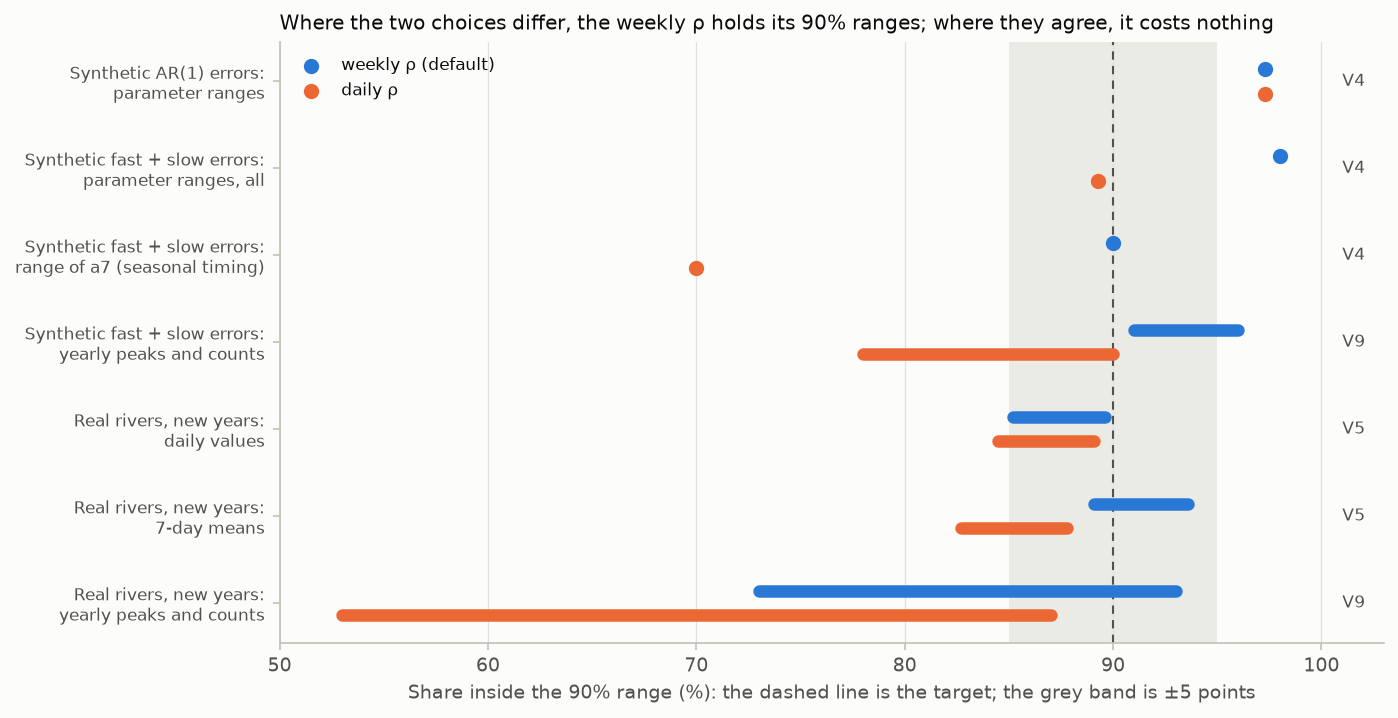
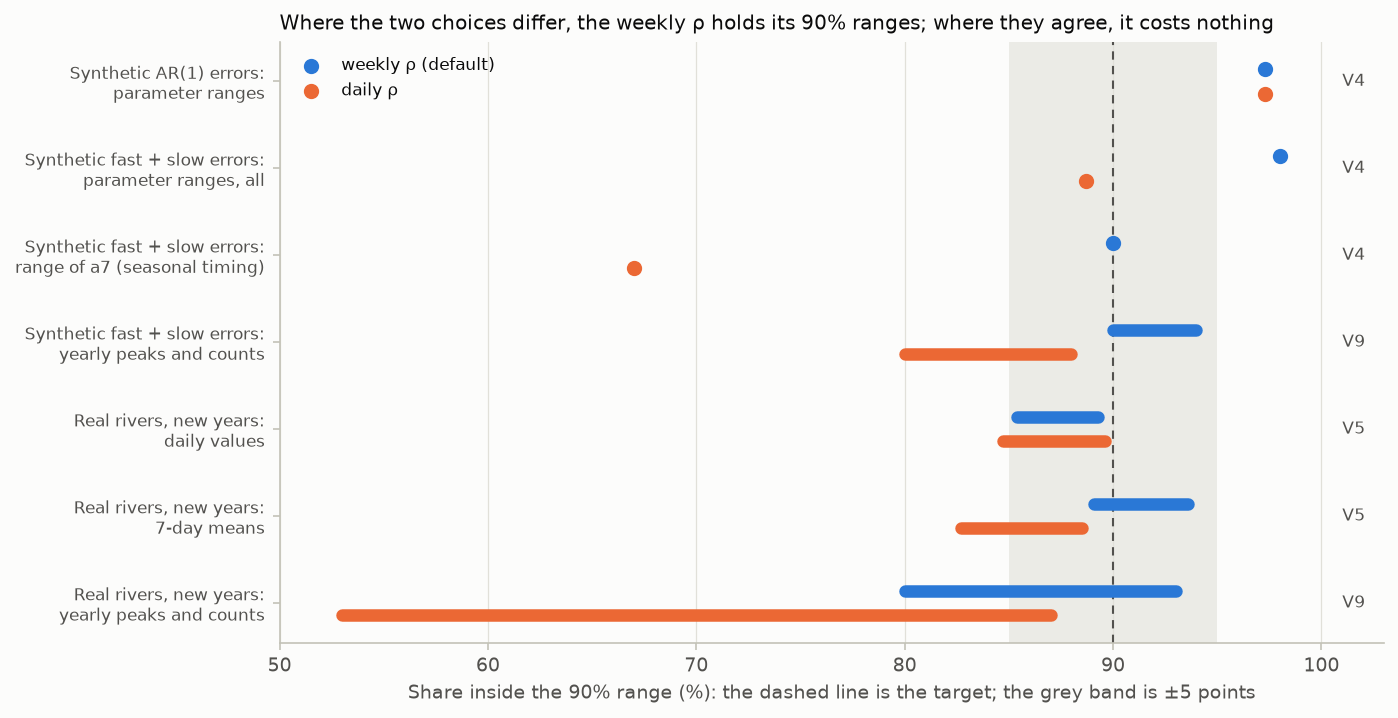
Docs: every validation number checked against the full rerun with the DE fix
Updated where the rerun changed them: V5 coverage (90% daily intervals in
later years 85-89%, 99% 95-99.5%), V4 jackknife coverage 83-95% (fold spread
35-52%) and daily-rho a7 interval 67%, V9 (synthetic 83-96%, real rivers
80-93%, version 8 Brier skill 0.08-0.43 rising to 0.35-0.50), V12 (hiding a
year's inputs changed no RMSE by more than 0.007 C, a seed alone the
intervals' width by 0.65-1.06), and the weekly-rho evidence table and figure
U18. The message printed after cross-validation quotes 83-95%. The CHANGELOG
records the full rerun.

Claude-Session: https://claude.ai/code/session_01JyYTyNnMKAUkaRFLKK2LWV

diff --git a/pyair2stream/main.py b/pyair2stream/main.py
@@ -27,7 +27,7 @@ from .model import (call_model, aggregation, statis, funcobj, detect_segments, w
 JACKKNIFE_NOTE = (
     "The rows jackknife_{level}_lower/upper are approximate {level}% intervals for the parameters "
     "(uncertainty_options.parameter_interval; in validation, 90% intervals contained the true values "
-    "83-94% of the time; validation/REPORT.md, V4). The 'std' row is only the spread between folds: "
+    "83-95% of the time; validation/REPORT.md, V4). The 'std' row is only the spread between folds: "
     "it is far too small to use as an uncertainty."
 )
 

diff --git a/docs/METHODS.md b/docs/METHODS.md
@@ -424,10 +424,10 @@ its inputs, which shape only the first days to weeks of the next year.
 
 Validation V12 tested the alternatives on 96 held-out river-years. Hiding the
 inputs during calibration too (in gap-tolerant mode, where the year then becomes
-a gap) changed no year's RMSE by more than 0.034 °C against the same mode with
-the inputs kept (another optimizer seed alone: 0.017 °C), and a 60-day
+a gap) changed no year's RMSE by more than 0.007 °C against the same mode with
+the inputs kept (another optimizer seed alone: 0.007 °C), and a 60-day
 buffer of unused days on each side of the year (h-block cross-validation;
-Burman et al., 1994) by no more than 0.041 °C; neither changed the coverage of
+Burman et al., 1994) by no more than 0.008 °C; neither changed the coverage of
 the 90% interval or the mean error of the yearly statistics measurably.
 
 **What it does not test.**
@@ -441,7 +441,7 @@ the 90% interval or the mean error of the yearly statistics measurably.
   earlier years, as is usual in hydrology (Coron et al., 2012), but where a
   record changes over time only a test that keeps time order is fully honest
   (Arlot and Celisse, 2010, §8.3). In V12, calibrating on earlier years only
-  predicted as accurately (RMSE 0.787 against 0.786 °C on the same 78 years),
+  predicted as accurately (RMSE 0.787 against 0.785 °C on the same 78 years),
   but its 90% intervals held on 87.1% of days against 89.6%, because the error
   size estimated from earlier years only was smaller. V5 (the later years of
   each record) and V10 (warmer years) are the forward tests: quote them, as
@@ -450,7 +450,7 @@ the 90% interval or the mean error of the yearly statistics measurably.
 Large variation of the parameters between folds means they are poorly determined
 by the data (equifinality). The spread between folds (`std`) is not a confidence
 interval: the folds share most of their data, so it understates the uncertainty
-(in validation V4 it contained the true values only 35–56% of the time).
+(in validation V4 it contained the true values only 35–52% of the time).
 
 `cv_results.csv` therefore also gives **jackknife intervals** for the parameters.
 With θᵢ the parameters fitted without block i (m folds), θ̄ their mean, and n the
@@ -464,9 +464,9 @@ rows are named `jackknife_90_lower` and so on).
 When every block is held out (m = n) this is the standard delete-one-block
 jackknife; the first years are never held out, so the sum over n blocks is
 estimated as n/m times the sum over the m folds. In validation V4 these 90%
-intervals contained the true parameters 83–94% of the time for every version.
+intervals contained the true parameters 83–95% of the time for every version.
 On the same data, the DE-MCMC parameter intervals (§12, default likelihood)
-contained them 97% of the time for version 5 and 91% for version 8. For
+contained them 97% of the time for version 5 and 93% for version 8. For
 versions 4, 7 and 8 set `Qmedia`
 explicitly, so that every fold uses the same discharge scaling.
 
@@ -580,9 +580,9 @@ values at least 90% of the time for both versions (V4). The exact AR(1)
 likelihood's intervals for version 8 contained the truth only about 75% of the
 time: its parameters trade off against each other and that posterior is far from
 normal. The sampler was cross-checked against emcee's stretch move. On three real
-rivers, with the default settings, 90% intervals contained 85–89.6% of daily
-values in years not used for calibration (84.5–89.6% across all settings
-tested), and for 7-day means 89–94%, against 83–88% with `rho_timescale:
+rivers, with the default settings, 90% intervals contained 85–89% of daily
+values in years not used for calibration (84.7–89.6% across all settings
+tested), and for 7-day means 89–94%, against 83–89% with `rho_timescale:
 "daily"` and 39–62% with `iid` (V5). On the same rivers, the parameters published by Piccolroaz et al.
 (2016) lay inside these intervals for every converged run of versions 3–5. For
 versions 7 and 8 on the Mentue and version 8 on the Rhône several lay outside:
@@ -590,14 +590,14 @@ there many parameter combinations fit almost equally well, and the published
 set is not where a least-squares calibration on these data lands (V2).
 
 **At other levels.** On synthetic data the intervals held at every level tested
-(50%, 80%, 90%, 95% and 99%: mean coverage within 1.4 points of the level, V4).
+(50%, 80%, 90%, 95% and 99%: mean coverage within 1.3 points of the level, V4).
 On the Swiss rivers, pooled over 48 years held out by cross-validation per
 version, daily intervals held from 50% to 95% (95% intervals: 94.4–94.5% of
 days), but 99% intervals held only 98.0–98.2%: the model's real errors have
 heavier tails than the normal distribution assumed (V11). In the later
 validation years of V5, whose errors were larger than in calibration, daily
-intervals were narrower than stated, more so at high levels (90%: 85–90%; 95%:
-91–95%; 99%: 95–99.6%). 7-day means held at every level (V11: 96–97% at 95%,
+intervals were narrower than stated, more so at high levels (90%: 85–89%; 95%:
+91–95%; 99%: 95–99.5%). 7-day means held at every level (V11: 96–97% at 95%,
 98.6–99.2% at 99%).
 
 **Where the chain is centred.** With the default least-squares likelihood the
@@ -760,8 +760,8 @@ autocorrelation of its sensitivity and r_e that of the errors.
 With one factor for all parameters, the factor must be large enough for the
 slowest parameter. Validation V4 computes this formula and compares it with the
 measured spread of the estimates; they agree closely. With fast + slow errors,
-ρ₁ made a7's interval about 1.5 times too narrow (measured 1.54; the formula
-predicts 1.59). Its 90% interval contained the truth 70% of the time. The
+ρ₁ made a7's interval about 1.5 times too narrow (measured 1.55; the formula
+predicts 1.59). Its 90% interval contained the truth 67% of the time. The
 weekly ρ gave it the right width (90%). The cost is that the intervals of the
 fast-varying parameters are wider than necessary, by a factor of about two to
 three in V4. That happens with either ρ: it is a property of a single effective
@@ -781,12 +781,12 @@ noisy, and ρ₁ sets the floor. For AR(1) errors, taking the larger changes not
 | Test | Weekly ρ (default) | Daily ρ | Check |
 |---|---|---|---|
 | AR(1) errors, synthetic: ρ estimated; 90% parameter intervals containing the truth | 0.699; 97.3% | 0.691; 97.3% | V4 E, G |
-| Fast + slow errors, synthetic: 90% parameter intervals | 98.0% | 89.3% | V4 H, I |
-| Same, interval of a7 alone | 90% | 70% | V4 H, I |
-| Same, 90% ranges of yearly peaks and counts | 91–96% | 78–90% | V9 A |
-| Real rivers, later years: daily values inside 90% intervals | 85.2–89.6% | 84.5–89.1% | V5 |
-| Same, 7-day means | 89.1–93.6% | 82.7–87.8% | V5 |
-| Same, 90% ranges of yearly peaks and counts | 73–93% | 53–87% | V9 B |
+| Fast + slow errors, synthetic: 90% parameter intervals | 98.0% | 88.7% | V4 H, I |
+| Same, interval of a7 alone | 90% | 67% | V4 H, I |
+| Same, 90% ranges of yearly peaks and counts | 90–94% | 80–88% | V9 A |
+| Real rivers, later years: daily values inside 90% intervals | 85.4–89.3% | 84.7–89.6% | V5 |
+| Same, 7-day means | 89.1–93.6% | 82.7–88.5% | V5 |
+| Same, 90% ranges of yearly peaks and counts | 80–93% | 53–87% | V9 B |
 
 The synthetic fast + slow errors are built like the real ones (60% of the
 variance in a part with ρ = 0.55, 40% in a part with ρ = 0.96). The real-river
@@ -906,7 +906,7 @@ result.
 **What the validation shows** (V9, V11). On synthetic data, where the model and
 its error model are exactly right, the stated probabilities for yearly
 statistics came true as often as stated, and the 90% ranges contained the
-measured value 86–94% of the time (V9 A). On the three Swiss rivers, over 48
+measured value 83–96% of the time (V9 A). On the three Swiss rivers, over 48
 held-out years per version (V11), the uncorrected 90% ranges held in 79–92% of
 years for version 8 and 73–81% for version 5. After the correction they held
 in 85–94% for both versions, within the range expected by chance, and the
@@ -919,7 +919,7 @@ as recommended to genuinely later years (cross-validation of the calibration
 years, then correction of the FORWARD simulations of the validation years; V9
 C, 15 river-years), the correction made the probabilities closer to what
 happened for 5 of 6 version and statistic pairs (version 8's Brier skill score
-against the share of past years rose from 0.08–0.42 to 0.33–0.50), but version
+against the share of past years rose from 0.08–0.43 to 0.35–0.50), but version
 8's 90% ranges for the highest daily mean still held in only 11 of 15
 river-years. Version 5 predicted almost the same peak every year on the Rhône,
 where discharge drives summer temperature; the correction removes its bias, but
@@ -1012,7 +1012,7 @@ change one-sided.
   Q-Q, autocorrelation) and the reported coverage, ideally on validation data.
   Errors are often larger in some seasons than others, so also check coverage
   in the season a limit applies to (on the Swiss rivers, summer coverage of 90%
-  intervals was 84–97%, validation V5).
+  intervals was 83–98%, validation V5).
 - **Converged sampling.** MCMC results are only valid once converged; by
   default the run stops otherwise (§12).
 - **Multi-day quantities** (7-day means, runs of days above a limit) need
@@ -1024,7 +1024,7 @@ change one-sided.
   (`prediction_interval`, `parameter_interval`). On the Swiss rivers daily
   intervals held from 50% to 95%, but 99% daily intervals missed about twice
   as many days as stated (98.0–98.2% held, V11), and in years unlike the
-  calibration years 95% intervals held 91–95% and 99% intervals 95–99.6% (V5).
+  calibration years 95% intervals held 91–95% and 99% intervals 95–99.5% (V5).
   Before reporting a 95% or 99% daily interval, check it at your site with
   `cv_interval_coverage.csv` (§11) and on validation years.
 - **Scenario differences** assume the model's error on a given day would be the

diff --git a/docs/UNCERTAINTY.md b/docs/UNCERTAINTY.md
@@ -270,8 +270,8 @@ weeks' errors correlate 0.52–0.81, about twice what the daily ρ implies
 
 **A single day: almost nothing.** σ is the same, so the range for one day is
 almost the same. On the Swiss rivers, the test was years not used for
-calibration. There, 90% daily ranges held on 85.2–89.6% of days with the weekly
-ρ, and on 84.5–89.1% with the daily ρ ([V5](../validation/REPORT.md#v5)).
+calibration. There, 90% daily ranges held on 85.4–89.3% of days with the weekly
+ρ, and on 84.7–89.6% with the daily ρ ([V5](../validation/REPORT.md#v5)).
 
 **Averages over a week or more: a lot.** Figure 8 shows simulated errors with
 each ρ, made from the same random numbers. Day by day they look alike. Over a
@@ -350,12 +350,12 @@ and below is over-confident.*
   data, V4 and [V9](../validation/REPORT.md#v9)). How often the 90% ranges
   contained the truth:
   - all parameter ranges: 98% with the weekly ρ, 89% with the daily ρ;
-  - the range of the seasonal timing `a7`: 90% against 70%;
-  - the ranges of yearly peaks and counts: 91–96% against 78–90%.
+  - the range of the seasonal timing `a7`: 90% against 67%;
+  - the ranges of yearly peaks and counts: 90–94% against 80–88%.
 - **Real rivers, years not used for calibration** (V5, V9). Daily values: the
   same with both. 90% ranges for 7-day means held 89.1–93.6% of the time with
-  the weekly ρ, against 82.7–87.8% with the daily ρ. Ranges for yearly peaks
-  and counts held in 73–93% of river-years, against 53–87%.
+  the weekly ρ, against 82.7–88.5% with the daily ρ. Ranges for yearly peaks
+  and counts held in 80–93% of river-years, against 53–87%.
 
 ### When to use which
 
@@ -437,7 +437,7 @@ One ρ sets the width of every parameter's range.
 - Parameters whose effect changes slowly over the year (the constant `a1`, the
   seasonal size `a6` and timing `a7`) need the full allowance for slow errors.
   With the daily ρ, the range of `a7` was too narrow: in the test, it contained
-  the truth 70% of the time instead of 90% (V4). With the weekly ρ it held
+  the truth 67% of the time instead of 90% (V4). With the weekly ρ it held
   (90%).
 - Parameters whose effect changes from day to day (`a2`, `a3`) then get ranges
   two to three times wider than they need.
@@ -568,9 +568,9 @@ was **not** calibrated on: a separate validation file, or cross-validation
 
 | Share of days inside the band | 50% | 80% | 90% | 95% | 99% |
 |---|---|---|---|---|---|
-| Synthetic data, model exactly right (V4) | within 1.4 points of the level at every level | | | | |
+| Synthetic data, model exactly right (V4) | within 1.3 points of the level at every level | | | | |
 | Swiss rivers, 48 held-out years per version (V11) | 52–54% | 81–82% | 90% | 94.4–94.5% | 98.0–98.2% |
-| Swiss rivers, later validation years (V5) | 43–53% | 75–79% | 85–90% | 91–95% | 95–99.6% |
+| Swiss rivers, later validation years (V5) | 43–53% | 75–79% | 85–89% | 91–95% | 95–99.5% |
 | Swiss rivers, the hottest 10% of days by prediction, version 8 (V14) | | 80% | 91% | 95% | |
 | The same, version 5 (no discharge term) (V14) | | 68% | 84% | 92% | |
 
@@ -684,7 +684,7 @@ everything the year could tell the model about the answer.
 Validation [V12](../validation/REPORT.md#v12) checked this on 96 held-out years
 of three Swiss rivers. Hiding the year's air temperature and discharge from the
 calibration as well, or leaving two months unused on each side of the year,
-changed no year's error by more than 0.04 °C, and did not change how often the
+changed no year's error by more than 0.01 °C, and did not change how often the
 ranges held.
 
 ### How to run it
@@ -1022,7 +1022,7 @@ cross-validation with a second `random_seed`.
 ### What the validation shows
 
 On synthetic data with known parameters, the default MCMC intervals (90%)
-contained the true values 91–97% of the time, and the jackknife intervals 83–94%
+contained the true values 93–97% of the time, and the jackknife intervals 83–95%
 ([V4](../validation/REPORT.md#v4)). The parameters published for the Swiss
 rivers (Piccolroaz et al., 2016) lay inside pyair2stream's MCMC intervals for 76
 of 81 values ([V2](../validation/REPORT.md#v2)).
@@ -1104,10 +1104,10 @@ range you quote beside it.
 
 | Share inside the range | 50% | 80% | 90% | 95% | 99% |
 |---|---|---|---|---|---|
-| days, synthetic data (V4) | within 1.4 points of the level at every level | | | | |
+| days, synthetic data (V4) | within 1.3 points of the level at every level | | | | |
 | days, 48 held-out years per version (V11) | 52–54% | 81–82% | 90% | 94.4–94.5% | 98.0–98.2% |
 | 7-day means, held-out years (V11) | 53–59% | 84–88% | 93–94% | 96–97% | 98.6–99.2% |
-| days, later validation years (V5) | 43–53% | 75–79% | 85–90% | 91–95% | 95–99.6% |
+| days, later validation years (V5) | 43–53% | 75–79% | 85–89% | 91–95% | 95–99.5% |
 | yearly statistics, corrected (V11) | 50–69% | 75–85% | 85–94% | 92–100% | 100% |
 
 ![Stated against achieved coverage on the real rivers: days, summer days and 7-day means.](../validation/figures/V5_levels.png)

diff --git a/USER_GUIDE.md b/USER_GUIDE.md
@@ -842,7 +842,7 @@ year, and then scores the model on that hidden year. It shows:
 Only the hidden year's water temperatures are hidden. The year is predicted
 from its own air temperature and discharge, like any prediction. This is the
 standard design. Hiding the inputs too changed no year's RMSE by more than
-0.04 °C ([V12](validation/REPORT.md#v12);
+0.01 °C ([V12](validation/REPORT.md#v12);
 [docs/METHODS.md §11](docs/METHODS.md#11-cross-validation) explains why).
 
 Each year is predicted from a calibration that includes later years as well
@@ -911,21 +911,21 @@ The check uses the error settings of `uncertainty_options` (`noise_model`,
 (The level is `uncertainty_options.parameter_interval`, and the row names
 follow it.) They come from how much the parameters move between folds (the
 jackknife, [docs/METHODS.md §11](docs/METHODS.md#11-cross-validation)). In a
-test with known parameters, they contained the true values 83–94% of the time
+test with known parameters, they contained the true values 83–95% of the time
 ([V4](validation/REPORT.md#v4)). Keep in mind:
 
 - Do not use the `std` row as an uncertainty. The folds share most of their
-  data, so it is far too small. It contained the true values only 35–56% of
+  data, so it is far too small. It contained the true values only 35–52% of
   the time.
 - Each interval is for one parameter on its own. Parameters that trade off
   move together, so combining the ends of several intervals gives parameter
   sets that do not fit ([example 06](examples/06_cross_validation/README.md)
   shows this).
-- The intervals also depend on the optimiser's random start. Where parameters
-  trade off, one fold can end on a distant set with almost the same fit.
-  Another `random_seed` alone changed version 8's intervals by a factor of
-  0.35 to 1.55 ([V12](validation/REPORT.md#v12)). For poorly determined
-  parameters, repeat the run with a second seed.
+- The intervals also depend a little on the optimiser's random start. Where
+  parameters trade off, one fold can end on a distant set with almost the same
+  fit. Another `random_seed` alone changed the intervals' typical width by a
+  factor of 0.65 to 1.06 ([V12](validation/REPORT.md#v12)). For poorly
+  determined parameters, repeat the run with a second seed.
 
 Cross-validation runs only with `run_mode` `DE`, `PSO` or `LATHYP`. In other
 run modes it is ignored, with a warning.
@@ -947,7 +947,7 @@ decision, check:
 4. **Uncertainty.** If you report a band, its coverage is close to the level
    you asked for: on validation years, and in the season your limit applies
    to. Bands for new years are usually slightly narrow: 90% bands held on
-   85–89.6% of days on the Swiss rivers ([V5](validation/REPORT.md#v5)).
+   85–89% of days on the Swiss rivers ([V5](validation/REPORT.md#v5)).
    - For 7-day means, runs of warm days and other quantities over several days,
      keep `noise_model: "ar1"` and `rho_timescale: "weekly"` (the defaults).
      Compute them from the saved simulations (§12).

diff --git a/CHANGELOG.md b/CHANGELOG.md
@@ -50,14 +50,14 @@
   air temperature and discharge, the standard design (docs/METHODS.md §11 now
   explains why, with references). Over 96 held-out river-years, hiding the
   inputs from the calibration too changed no year's RMSE by more than
-  0.034 °C (against gap-tolerant mode with the inputs kept), and a 60-day
-  buffer around the year by no more than 0.041 °C.
+  0.007 °C (against gap-tolerant mode with the inputs kept), and a 60-day
+  buffer around the year by no more than 0.008 °C.
   Calibrating on earlier years only was as accurate, but its 90% intervals held
   on 87.1% of days against 89.6%: for predictions of future years, quote the
-  later-years tests (V5, V10) as well. ⚠ Jackknife parameter intervals depend
-  on the optimizer: another seed alone changed version 8's jackknife standard
-  errors by a factor of 0.35–1.55; check poorly determined parameters with a
-  second `random_seed`. `validation/run_all.py --only` now keeps the other
+  later-years tests (V5, V10) as well. Jackknife parameter intervals depend a
+  little on the optimizer: another seed alone changed their typical width by a
+  factor of 0.65–1.06 (0.35–1.55 before the DE stopping rule was fixed); check
+  poorly determined parameters with a second `random_seed`. `validation/run_all.py --only` now keeps the other
   checks in `REPORT.md`.
 - Validation V13: the parameters and errors of the first air2stream paper
   (Toffolon and Piccolroaz, 2015), transcribed to
@@ -192,12 +192,15 @@
   temperatures by at most 0.008 °C. Results drawn from MCMC samples moved
   slightly more, because the chain starts from the fit: example 03's
   corrected probabilities went from 0.59/0.33/0.12 to 0.57/0.34/0.14. The
-  examples and their figures are rerun. ⚠ The validation report
-  (validation/REPORT.md) was made before this fix. A rerun with the fix
-  reached V1-V4 before the 2-hour limit for background jobs: V1-V3 gave the same
-  results, and V4's coverages moved by at most 2 percentage points (all still
-  passing). The full suite now takes over 2 hours, so it has to be run in
-  parts (`python validation/run_all.py --only V5 V6 ...`).
+  examples and their figures are rerun. The whole validation suite is rerun
+  with the fix: the same 11 checks pass and the same 4 (V5, V9, V10, V14)
+  miss some criteria, for the same reasons. Most numbers moved by a few
+  tenths of a percentage point. The exceptions show how much the early stop
+  had cost: in V12, the design differences it had seemed to show were mostly
+  optimizer scatter (hiding a held-out year's inputs changed no year's RMSE by
+  more than 0.007 °C, against 0.034 °C before), and in V15 the jackknife
+  intervals are half as wide. The full suite now takes several hours; run it
+  in parts with `--only` where jobs are limited in length.
 - Monthly scoring (`time_resolution: "1m"`) of a 360-day-calendar record longer
   than about 60 years stopped with `IndexError`.
 - Documentation errors: example 02 gave the parameter ranges as 95% ranges

diff --git a/examples/06_cross_validation/README.md b/examples/06_cross_validation/README.md
@@ -133,9 +133,9 @@ years. They are the bands in the figure.
 Keep in mind:
 
 - **They are approximate.** In a test with known parameters, these intervals
-  contained the true values 83–94% of the time, for every model version
+  contained the true values 83–95% of the time, for every model version
   ([validation V4](../../validation/REPORT.md#v4)). The MCMC parameter ranges
-  of example 02 did as well or better in that test (97% for version 5, 91% for
+  of example 02 did as well or better in that test (97% for version 5, 93% for
   version 8).
 - **They describe years like those in the record.** Conditions the record does
   not contain, such as much lower summer flows, can need different values.

diff --git a/README.md b/README.md
@@ -225,7 +225,7 @@ A [validation suite](validation/README.md) tests this. Its results are in
   ([V3](validation/REPORT.md#v3)).
 - **Honest uncertainty ranges.** On such data, 90% ranges contain the truth
   about 90% of the time ([V4](validation/REPORT.md#v4)). On real rivers, in
-  years not used for fitting, they held on 85–89.6% of days. So they are
+  years not used for fitting, they held on 85–89% of days. So they are
   slightly too narrow for new years ([V5](validation/REPORT.md#v5)).
 - **Probabilities need the check.** The model can be too warm on the hottest
   days. So uncorrected ranges for yearly peaks held in only 73–92% of years.

diff --git a/examples/02_uncertainty/README.md b/examples/02_uncertainty/README.md
@@ -65,7 +65,7 @@ pyair2stream --config examples/02_uncertainty/predict.yaml
 Interval check: 89.5% of 1095 observed days lie inside the 90% prediction interval.
 ```
 
-That is close to 90%, slightly below. The validation suite found 85–89.6% on
+That is close to 90%, slightly below. The validation suite found 85–89% on
 three Swiss rivers ([V5](../../validation/REPORT.md#v5)). The model's errors
 are somewhat larger in years it has not seen. So the intervals are slightly
 too narrow for new years.
